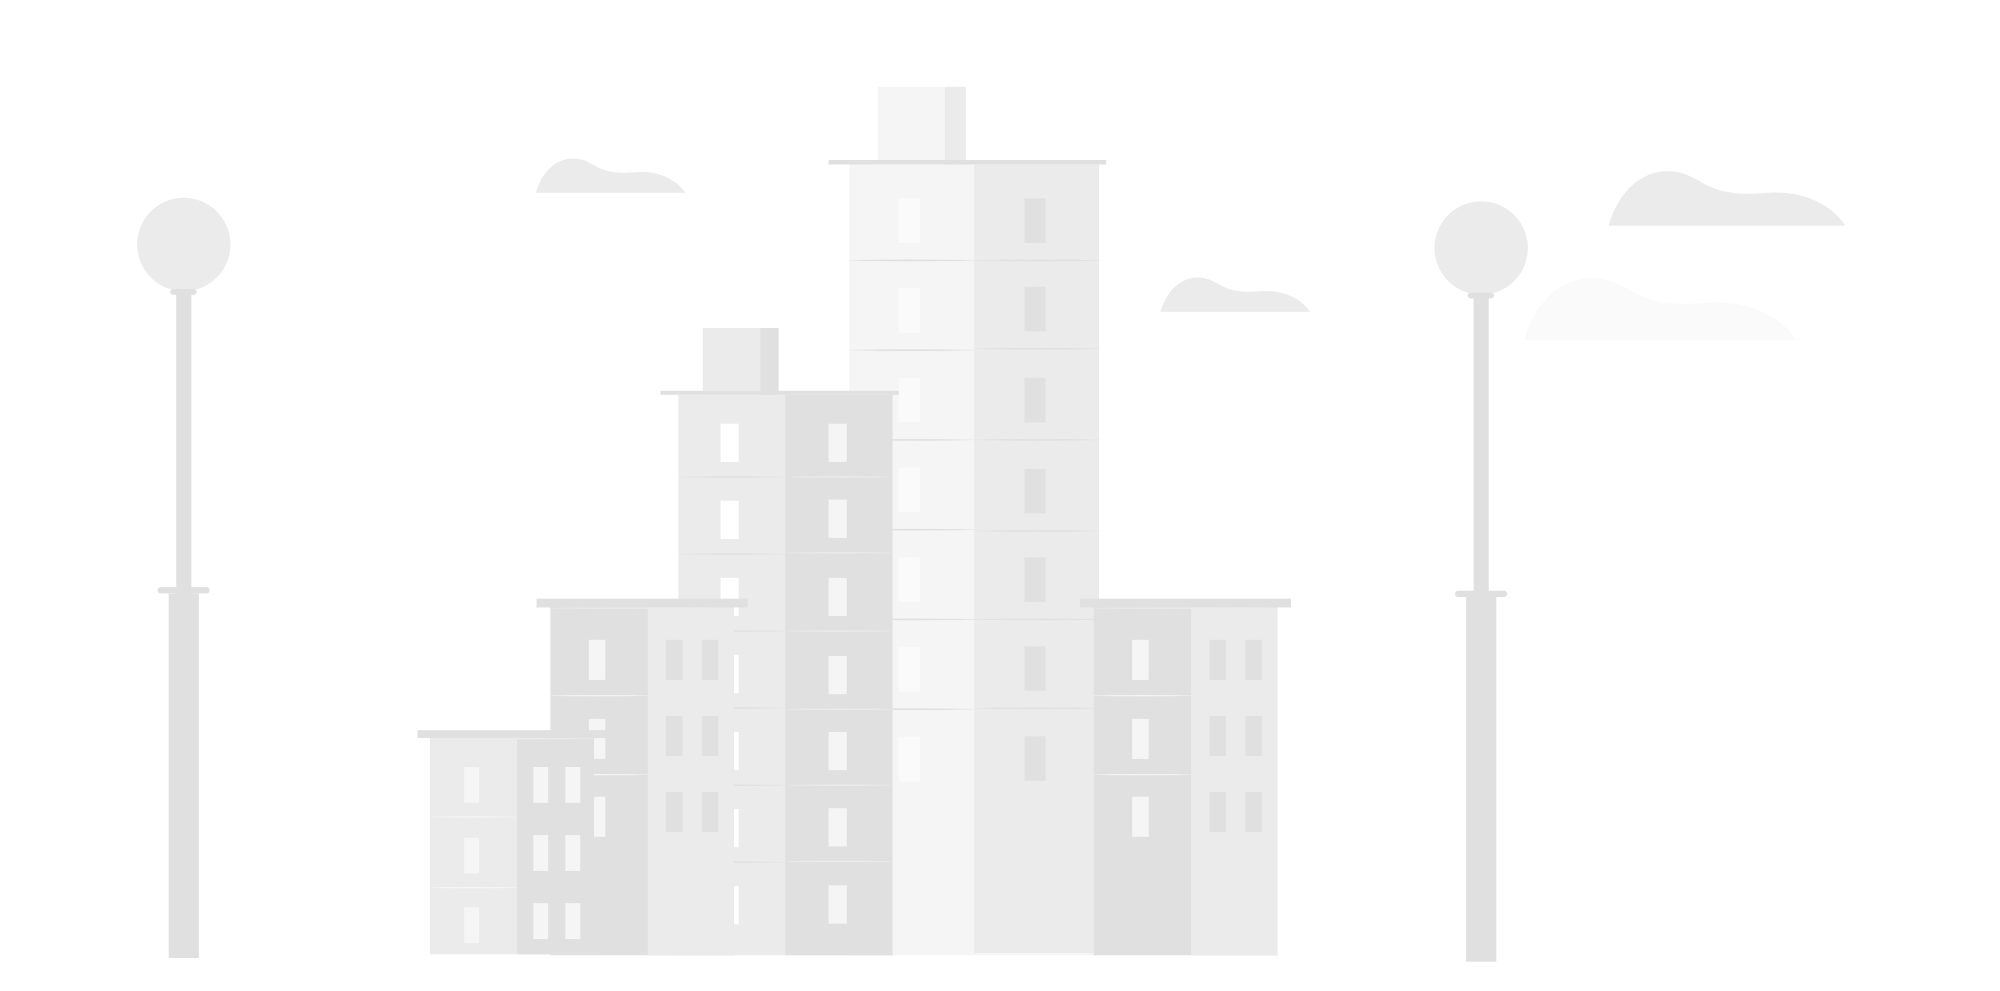
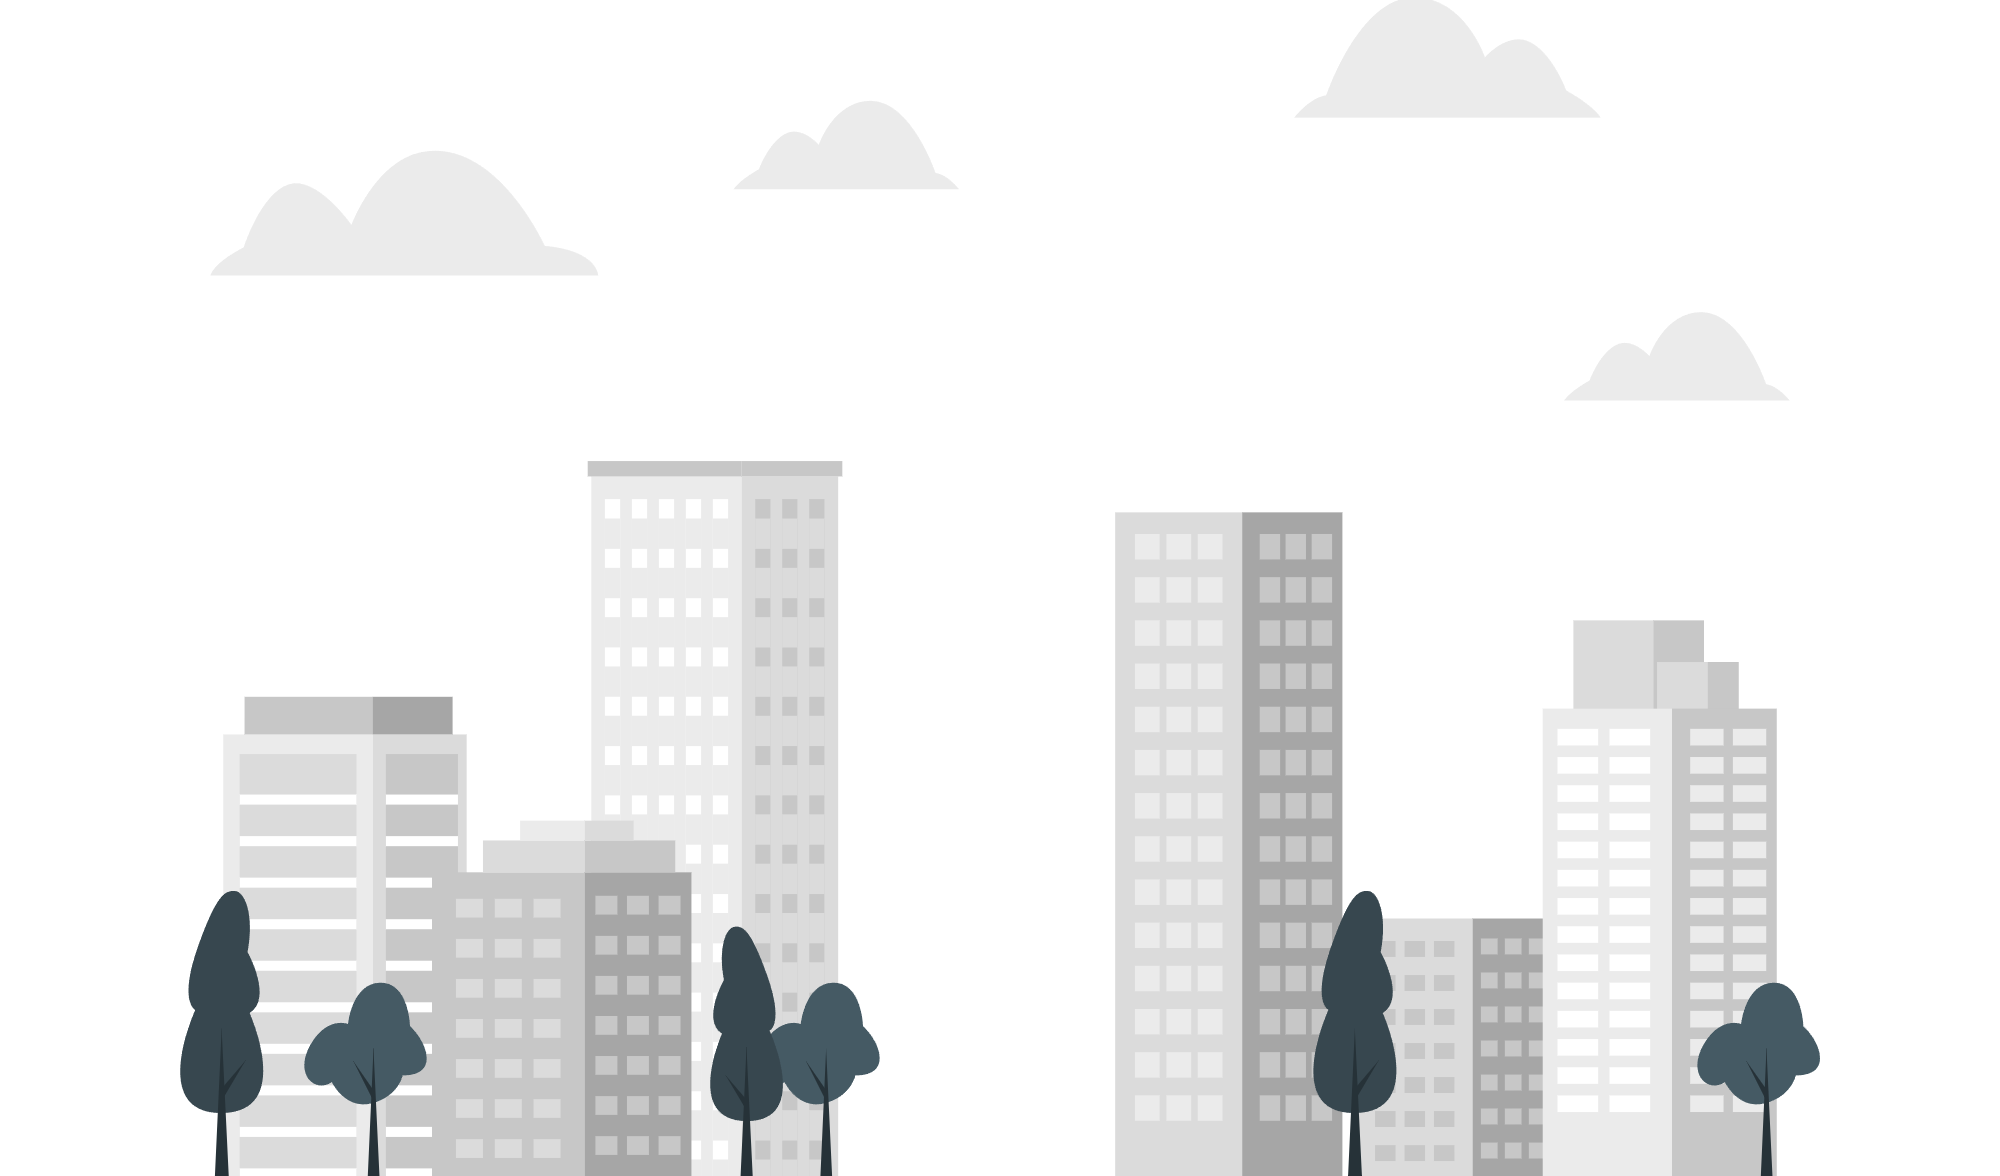
landing page is added, footer is updated and new assets are added

diff --git a/src/layout/LandingPage.jsx b/src/layout/LandingPage.jsx
@@ -1,97 +1,194 @@
-import { ArrowRightEndOnRectangleIcon, Bars3Icon, XMarkIcon } from "@heroicons/react/24/outline"
+import { ArrowRightEndOnRectangleIcon, Bars3Icon, ClipboardDocumentListIcon, PresentationChartLineIcon, ShieldCheckIcon, XMarkIcon } from "@heroicons/react/24/outline"
 import { ASSETS, LANDING_TEXT } from "../utils/GetAssets"
 import { useNavigate } from "react-router-dom"
 import Footer from "./Footer";
 import { useState } from "react";
+import { ComputerDesktopIcon, PaperAirplaneIcon } from "@heroicons/react/24/solid";
 
 const LandingPage = () => {
 
     const navigate = useNavigate();
     const [navExpand, setNavExpand] = useState(false);
 
-  return (
-    <section className="relative w-full h-screen flex flex-col items-center justify-center text-[#423e36] thin-scrollbar-light">
+    return (
+        <section className="relative w-full h-screen text-[#423e36] thin-scrollbar overflow-x-hidden">
 
-        {/* navbar for landing page */}
-        <nav className={`absolute top-0 left-0 w-full flex flex-col gap-5 md:gap-0 md:flex-row items-center justify-between px-5 py-3 font-semibold bg-white/50 backdrop-blur-sm md:h-auto overflow-hidden
-        ${navExpand ? 'h-1/2 shadow-xl/15 rounded-b-2xl' : 'h-[80px]'} transition-all`}
-        >
+            {/* navbar for landing page */}
+            <nav 
+                className={`fixed z-50 top-0 left-0 w-full flex flex-col gap-5 md:gap-0 md:flex-row items-center justify-between px-5 py-3 font-semibold bg-white/10 backdrop-blur-sm md:h-auto overflow-hidden ${navExpand ? 'h-1/2 shadow-xl/15 rounded-b-2xl' : 'h-[80px]'} transition-all`}
+            >
 
-            <div className="flex items-center justify-between w-full md:w-auto">
-                <img 
-                    src={ASSETS.logo} 
-                    alt="Spend Guide logo"
-                    onClick={() => navigate("/")} 
-                    className="w-50 hover:cursor-pointer"
+                <div className="flex items-center justify-between w-full md:w-auto">
+                    <img
+                        src={ASSETS.logo}
+                        alt="Spend Guide logo"
+                        onClick={() => navigate("/")}
+                        className="w-50 hover:cursor-pointer"
+                    />
+                    <button
+                        onClick={() => setNavExpand(!navExpand)}
+                        type="button"
+                        className="md:hidden"
+                    >
+                        {
+                            navExpand ?
+                                <XMarkIcon className={`size-12 p-2 rounded-lg ${navExpand ? 'bg-white' : 'bg-none'} transition-all`} /> :
+                                <Bars3Icon className={`size-12 p-2 rounded-lg ${navExpand ? 'bg-white' : 'bg-none'} transition-all`} />
+                        }
+
+                    </button>
+                </div>
+
+                <ul className="flex flex-col md:flex-row grow items-center md:justify-center justify-around">
+                    <li><a className="block w-full sm:w-28 px-5 sm:border-r sm:border-black/20 py-3 rounded-l-2xl sm:bg-white/80 hover:underline hover:font-black hover:tracking-widest transition-all md:text-[16px] text-xl text-center" href="#home">Home</a></li>
+                    <li><a className="block w-full sm:w-28 px-5 py-3 sm:bg-white/80 hover:underline hover:font-black hover:tracking-widest transition-all md:text-[16px] text-xl text-center" href="#about">About</a></li>
+                    <li><a className="block w-full sm:w-28 px-5 sm:border-l sm:border-black/20 py-3 rounded-r-2xl sm:bg-white/80 hover:underline hover:font-black hover:tracking-blockdest transition-all md:text-[16px] text-xl text-center" href="#links">Links</a></li>
+                </ul>
+                <div className="flex items-center justify-between gap-3 p-10 md:p-0">
+                    <button
+                        type="button"
+                        onClick={() => navigate("/signin")}
+                        className="flex items-center justify-between py-2 px-4 rounded-lg shadow-lg/20 gap-2 mx-auto bg-white/70 hover:bg-white/80 active:shadow-none active:bg-white hover:cursor-pointer transition-all"
+                    >
+                        Sign In
+                        <ArrowRightEndOnRectangleIcon className="w-5 h-5" />
+                    </button>
+                    <button
+                        type="button"
+                        onClick={() => navigate("/signup")}
+                        className="relative flex items-center justify-between py-2 px-6 rounded-lg shadow-lg/30 gap-2 mx-auto bg-[#25933b] hover:bg-[#207f33] active:bg-[#1d722e] text-white hover:cursor-pointer transition-all"
+                    >
+                        Sign Up
+                    </button>
+                </div>
+            </nav>
+
+            {/* Call-to-action section */}
+            <section id="home" 
+                className="relative pt-18 w-full flex flex-col items-center justify-between"
+            >
+
+                {/* background image */}
+                <img
+                    src={ASSETS.backgroundLight}
+                    alt="Background"
+                    className="absolute md:h-2/3 sm:h-3/4 h-7/8 w-full -z-10 top-0 object-cover opacity-30"
                 />
-                <button 
-                    onClick={() => setNavExpand(!navExpand)}
+
+                {/* Call-to-action text and button */}
+                <div className="grow md:text-xl sm:text-[15px] md:h-80 sm:h-86 h-96 sm:w-3/4 w-full px-3 sm:px-0 text-center items-center justify-center flex flex-col">
+                    <div className="flex flex-col gap-2 text-[#423e36]">
+                        <p className="text-center font-black sm:text-3xl text-2xl">{LANDING_TEXT.para}</p>
+                        <p className="text-center font-semibold text-[#1d722e] sm:text-[16px] text-sm opacity-90 pb-4">{LANDING_TEXT.para2}</p>
+                        <button
+                            type="button"
+                            onClick={() => navigate("/signup")}
+                            className="relative text-sm sm:text-[15px] font-medium flex items-center justify-between py-3 px-8 rounded-lg shadow-lg/40 gap-2 mx-auto bg-[#25933b] hover:bg-[#207f33] active:bg-[#1d722e] text-white hover:cursor-pointer transition-all"
+                        >
+                            {LANDING_TEXT.buttonText}
+                            <PaperAirplaneIcon className="text-white w-5 sm:w-7" />
+                            <span className="absolute -top-1 -right-1 size-3 animate-ping rounded-full bg-[#765e2b] opacity-75"></span>
+                            <span className="absolute -top-1 -right-1 size-3 rounded-full bg-[#7b6431]"></span>
+                        </button>
+                    </div>
+                </div>
+
+                {/* Screenshot images and it's heading */}
+                <div className="grow flex flex-col items-center justify-center w-full">
+                    <h2 className="grow-0 md:text-[45px] sm:text-3xl px-5 py-2 sm:px-0 text-3xl text-center font-black">
+                        {LANDING_TEXT.heading} <p className="inline text-[#25933b]">{LANDING_TEXT.heading2}</p>
+                    </h2>
+                    <div className="w-full flex flex-col items-center justify-between ">
+                        <div className="relative sm:w-3/4 w-11/12 rounded-xl shadow-xl/25">
+                            <img
+                                src={ASSETS.screenshotPc}
+                                alt="PC screenshot"
+                                className="rounded-xl border-4 border-green-100"
+                            />
+                            <img
+                                src={ASSETS.screenshotMobile}
+                                alt="Mobile screenshot"
+                                className="rounded-lg border-4 border-green-100 w-[17%] absolute -bottom-1/8 left-1/10 shadow-2xl/40"
+                            />
+                        </div>
+                        <div className="flex items-center justify-center w-full px-15 pt-20 gap-4">
+                            <div className="md:w-8 sm:w-10 w-18 grow-0">
+                                <ComputerDesktopIcon />
+                            </div>
+                            <p className="md:text-lg sm:text-[16px] text-sm text-center font-bold">
+                                {LANDING_TEXT.imageText}
+                            </p>
+                        </div>
+                    </div>
+                </div>
+            </section>
+
+            {/* About section */}
+            <section id="about" 
+                className="flex flex-col items-center justify-center gap-5 py-28"
+            >
+                <h2 className="text-3xl font-black text-center">
+                    {LANDING_TEXT.aboutMainHead}
+                    <p className="inline text-[#25933b]">{LANDING_TEXT.aboutMainHead2}</p>
+                    {LANDING_TEXT.aboutMainHead3}
+                </h2>
+                <section className="flex flex-wrap items-center justify-around gap-10 px-20">
+                    <div className="flex flex-col gap-2 min-h-64 min-w-78 flex-1 p-10 border border-black/10 shadow-xl/20 rounded-2xl">
+                        <ClipboardDocumentListIcon className="stroke-2 min-w-13 w-13 p-3 bg-[#3eb0537b] text-[#2a7a39] rounded-lg" />
+                        <h2 className="text-xl font-black text-left pt-3">{LANDING_TEXT.aboutHead1}</h2>
+                        <p className="font-semibold sm:text-sm text-[13px] text-[#1d722e] opacity-85 text-left w-full">{LANDING_TEXT.aboutPara1}</p>
+                    </div>
+                    <div className="flex flex-col gap-2 h-64 min-w-78 flex-1 p-10 border border-black/10 shadow-xl/20 rounded-2xl">
+                        <PresentationChartLineIcon className="stroke-2 w-13 p-3 bg-[#3eb0537b] text-[#2a7a39] rounded-lg" />
+                        <h2 className="text-xl font-black text-left pt-3">{LANDING_TEXT.aboutHead2}</h2>
+                        <p className="font-semibold sm:text-sm text-[13px] text-[#1d722e] opacity-85 text-left w-full">{LANDING_TEXT.aboutPara2}</p>
+                    </div>
+                    <div className="flex flex-col gap-2 h-64 min-w-78 flex-1 p-10 border border-black/10 shadow-xl/20 rounded-2xl">
+                        <ShieldCheckIcon className="stroke-2 w-13 p-3 bg-[#3eb0537b] text-[#2a7a39] rounded-lg" />
+                        <h2 className="text-xl font-black text-left pt-3">{LANDING_TEXT.aboutHead3}</h2>
+                        <p className="font-semibold sm:text-sm text-[13px] text-[#1d722e] opacity-85 text-left w-full">{LANDING_TEXT.aboutPara3}</p>
+                    </div>
+                </section>
+            </section>
+
+            {/* End call-to-action section */}
+            <section 
+                className="relative md:mb-32 mb-40 px-5 py-15 w-full flex items-center justify-center flex-col gap-5"
+            >
+
+                {/* background image blur */}
+                <img
+                    src={ASSETS.backgroundLight}
+                    alt="Background"
+                    className="absolute w-full h-full blur-2xl -z-10 top-0"
+                />
+
+                <h2 className="text-3xl font-black text-center text-shadow-xs/30">
+                    {LANDING_TEXT.endHead}
+                    <p className="inline text-[#25933b]">{LANDING_TEXT.endHead2}</p>
+                </h2>
+                <p className="text-center w-full font-semibold text-[#423e36]">
+                    {LANDING_TEXT.endPara}
+                </p>
+                <button
                     type="button"
-                    className="md:hidden"
+                    onClick={() => navigate("/signup")}
+                    className="relative text-sm sm:text-[15px] font-medium flex items-center justify-between py-3 px-8 rounded-lg shadow-lg/40 gap-2 mx-auto bg-[#25933b] hover:bg-[#207f33] active:bg-[#1d722e] text-white hover:cursor-pointer transition-all"
                 >
-                {
-                    navExpand ?
-                    <XMarkIcon className={`size-12 p-2 rounded-lg ${navExpand ? 'bg-white' : 'bg-none'} transition-all`} /> :
-                    <Bars3Icon className={`size-12 p-2 rounded-lg ${navExpand ? 'bg-white' : 'bg-none'} transition-all`} />
-                }
-
+                    {LANDING_TEXT.buttonText}
+                    <PaperAirplaneIcon className="text-white w-5 sm:w-7" />
+                    <span className="absolute -top-1 -right-1 size-3 animate-ping rounded-full bg-[#765e2b] opacity-75"></span>
+                    <span className="absolute -top-1 -right-1 size-3 rounded-full bg-[#7b6431]"></span>
                 </button>
-            </div>
+            </section>
 
-            <ul className="flex flex-col md:flex-row md:gap-12 gap-6 grow items-center md:justify-center justify-around">
-                <li><a className="hover:underline hover:font-black hover:tracking-widest transition-all md:text-[16px] text-xl w-15 text-center block" href="#home">Home</a></li>
-                <li><a className="hover:underline hover:font-black hover:tracking-widest transition-all md:text-[16px] text-xl w-15 text-center block" href="#about">About</a></li>
-                <li><a className="hover:underline hover:font-black hover:tracking-widest transition-all md:text-[16px] text-xl w-15 text-center block" href="#links">Links</a></li>
-            </ul>
-            <div className="flex items-center justify-between gap-3 p-10 md:p-0">
-                <button 
-                  type="button"
-                  onClick={() => navigate("/signin")}
-                  className="flex items-center justify-between py-2 px-4 rounded-lg shadow-lg/20 gap-2 mx-auto bg-black/5 hover:bg-black/10 active:shadow-none active:bg-black/20 hover:cursor-pointer transition-all"
-                >
-                    Sign In
-                    <ArrowRightEndOnRectangleIcon className="w-5 h-5" />
-                </button>
-                <button 
-                  type="button"
-                  onClick={() => navigate("/signup")}
-                  className="relative flex items-center justify-between py-2 px-6 rounded-lg shadow-lg/30 gap-2 mx-auto bg-[#25933b] hover:bg-[#207f33] active:bg-[#1d722e] text-white hover:cursor-pointer transition-all"
-                >
-                    Sign Up
-                    <span className="absolute -top-1 -right-1 size-3 animate-ping rounded-full bg-green-400 opacity-75"></span>
-                    <span className="absolute -top-1 -right-1 size-3 rounded-full bg-green-400"></span>
-                </button>
-            </div>
-        </nav>
+            {/* Footer section */}
+            <section id="links" className="relative w-full flex items-center justify-center">
+                <Footer />
+            </section>
 
-        {/* Call-to-action section */}
-        <section id="home" className="relative w-4/5 h-3/4 border flex flex-col items-center justify-center">
-            
-            {/*  */}
-            <div className="absolute h-full w-full -z-9 object-cover"></div>
-            <img 
-                src={ASSETS.cityBackground}
-                alt="Background"
-                className="absolute h-full w-full -z-10 object-cover"
-            />
-
-            <h2 className="text-5xl text-center font-black">
-                {LANDING_TEXT.heading}
-            </h2>
-            <p className="text-lg font-semibold w-full text-center">
-                {LANDING_TEXT.para}
-            </p>
         </section>
-
-        {/* Image section */}
-
-        {/* About section */}
-
-        {/* Footer section */}
-        {/* <Footer /> */}
-
-    </section>
-  )
+    )
 }
 
 export default LandingPage

diff --git a/src/layout/Footer.jsx b/src/layout/Footer.jsx
@@ -1,12 +1,31 @@
+import { ArrowTopRightOnSquareIcon } from "@heroicons/react/24/outline"
 import { LINKS } from "../utils/UrlLinks"
 
 const Footer = () => {
   return (
-    <footer id="links" className="flex md:flex-row flex-col absolute bottom-0 md:justify-between justify-center w-full sm:px-20 px-12 py-4 bg-[#e1e1e0e2] text-[#0000008F] sm:text-[13px] text-[10px] font-bold">
+    <footer className="flex md:flex-row flex-col absolute bottom-0 md:justify-between justify-center w-full sm:px-20 px-12 py-4 bg-[#e1e1e0e2] text-[#0000008F] sm:text-[13px] text-[10px] font-bold">
         <div className="flex justify-between p-2 items-center">
-            <a className="px-4" href={ LINKS.repoFrontend }>Frontend Repo</a>
-            <a className="px-4 border-l-[1px]" href={ LINKS.repoBackend }>Backend Repo</a>
-            <a className="px-4 border-l-[1px]" href={ LINKS.license }>MIT License</a>
+            <a 
+              className="px-4 hover:text-[#000000c0] active:text-[#000000e1] transition-all flex gap-1" 
+              href={ LINKS.repoFrontend }
+              target="_blank"
+            >
+              Frontend Repo <ArrowTopRightOnSquareIcon className="w-4" />
+            </a>
+            <a 
+              className="px-4 hover:text-[#000000c0] active:text-[#000000e1] transition-all border-l-[1px] flex gap-1" 
+              href={ LINKS.repoBackend }
+              target="_blank"
+            >
+              Backend Repo <ArrowTopRightOnSquareIcon className="w-4" />
+            </a>
+            <a 
+              className="px-4 hover:text-[#000000c0] active:text-[#000000e1] transition-all border-l-[1px] flex gap-1" 
+              href={ LINKS.license }
+              target="_blank"
+            >
+              MIT License <ArrowTopRightOnSquareIcon className="w-4" />
+            </a>
         </div>
         <aside className="p-4 text-center">
             <p>Copyright &copy; 2025 Spend Guide. All rights reserved.  </p>

diff --git a/index.html b/index.html
@@ -1,5 +1,5 @@
 <!doctype html>
-<html lang="en">
+<html lang="en" style="scroll-behavior: smooth;">
   <head>
     <meta charset="UTF-8" />
     <link rel="icon" href="/src/assets/icon.png" />

diff --git a/src/index.css b/src/index.css
@@ -6,6 +6,7 @@
   background-color: #efefee;
   overflow-x: hidden;
   transition: all 0.5s ease-in-out 0s;
+  scroll-behavior: smooth;
 }
 
 /* For Firefox and Old Edge */
